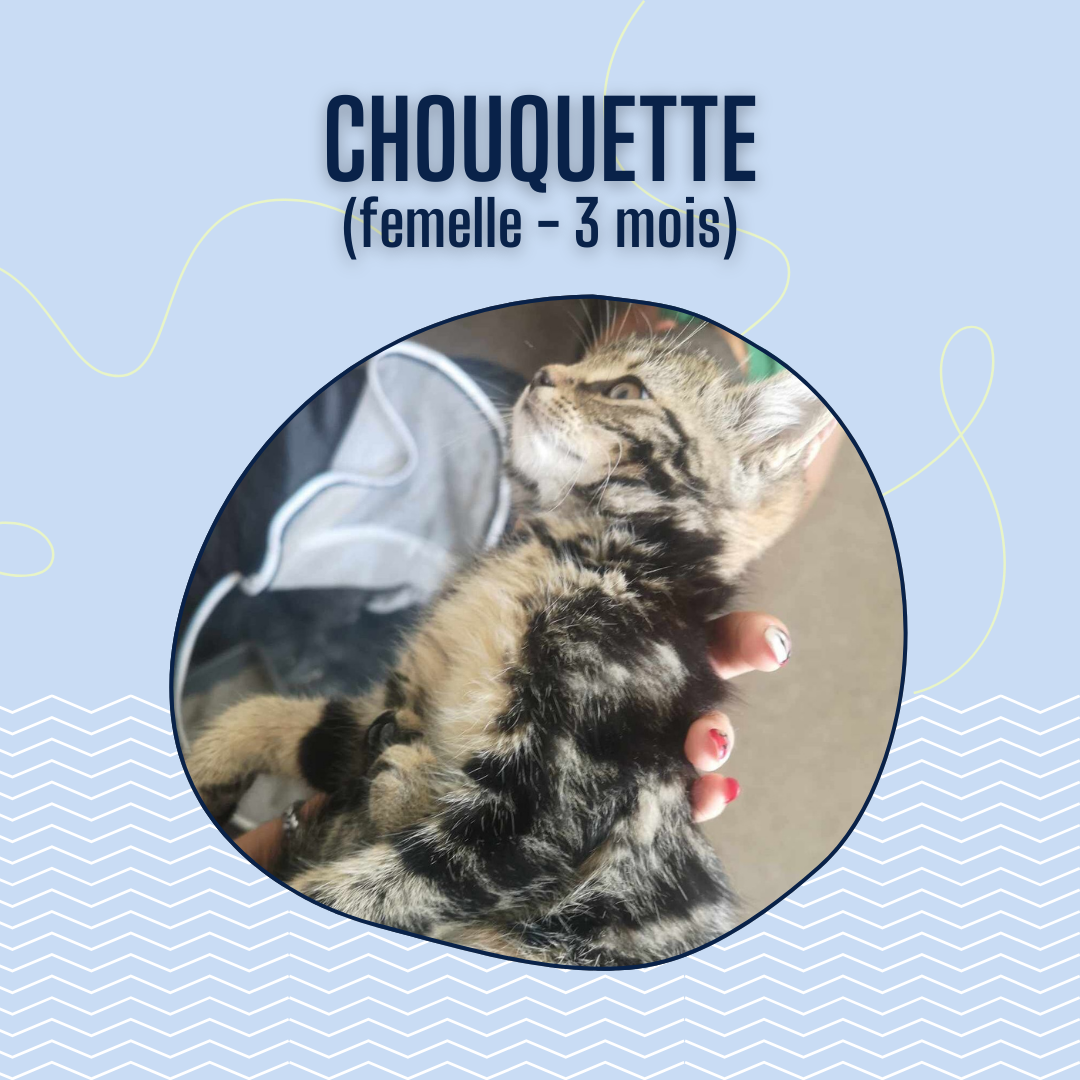
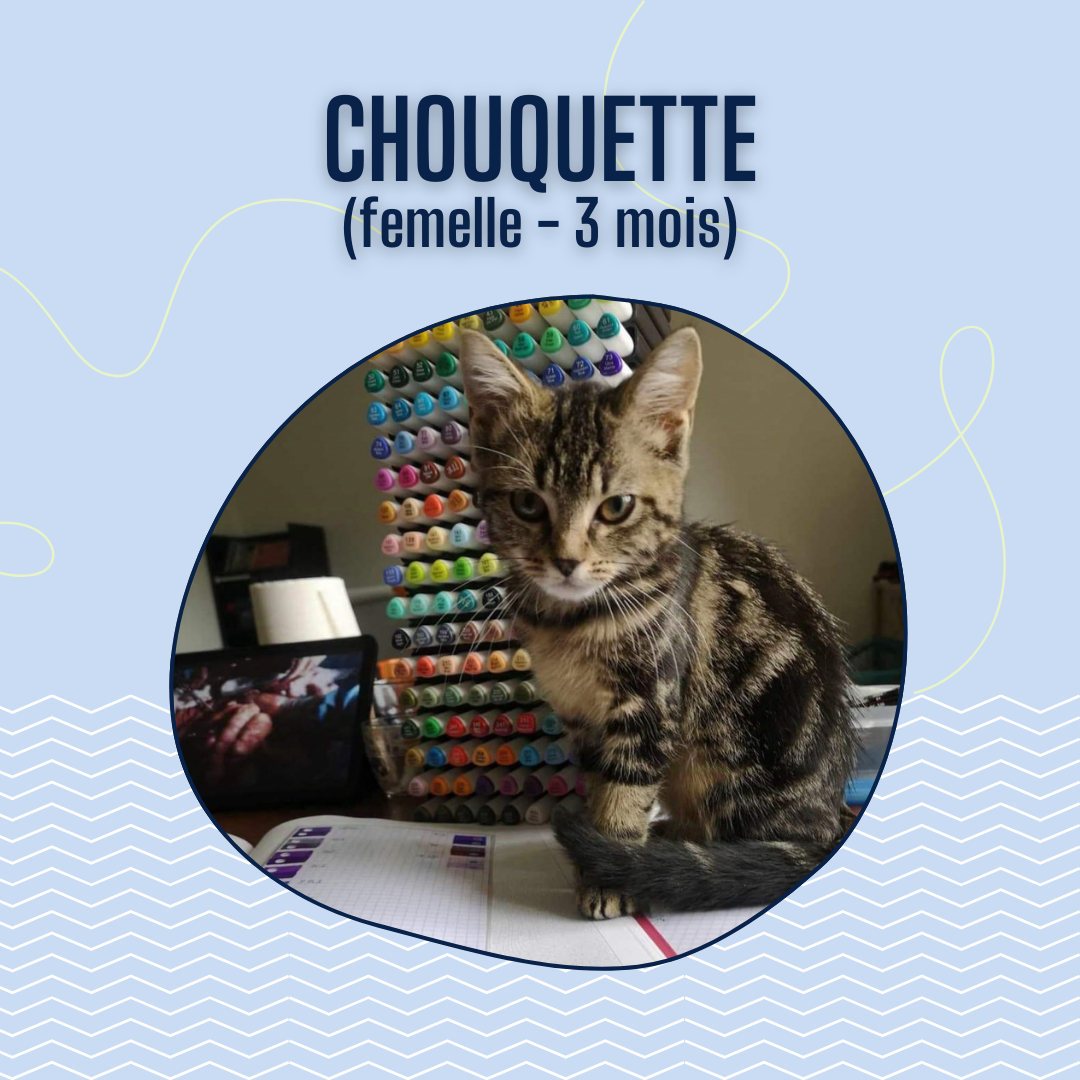
[UPDATE] - 17-09-2024

Changed region(s): [[0.1528, 0.275, 0.8556, 0.9167]]

diff --git a/fiches-adoption/a-chouquette.html b/fiches-adoption/a-chouquette.html
@@ -171,6 +171,16 @@
                           <img src="../images/Adoption/a_chouquette1.jpg" />
                         </div>
                       </div>
+                      <div class="carousel-item">
+                        <div class="img-box-particulier">
+                          <img src="../images/Adoption/a_chouquette2.jpg" />
+                        </div>
+                      </div>
+                      <div class="carousel-item">
+                        <div class="img-box-particulier">
+                          <img src="../images/Adoption/a_chouquette3.jpg" />
+                        </div>
+                      </div>
                     </div>
                     <div class="img_content">
                       <a
@@ -209,13 +219,20 @@
                   fait prêt à trouver sa famille, nos deux minettes, elles, sont
                   disponibles à l'adoption dès aujourd'hui ! (Louve vient
                   d'ailleurs d'être réservée !!) 💓 <br />
-                  Chouquette est la plus calme de la portée. Elle est très
-                  câline et très sage 🐈 Elle ronronne absolument tout le temps
-                  et adore être proche de l'humain 🫶🏻 <br />
+                  Chouquette est la plus calme de la portée. Bien qu'elle ait
+                  été trappée dans un jardin, son passé de sauvageonne est loin
+                  (très loin!) derrière elle. 🥰 Chouquette est super câline et
+                  très sage 🐈 Elle ronronne absolument tout le temps et adore
+                  être proche de l'humain 🫶🏻 <br />
                   Elle est également très gourmande et n'hésite pas à vous le
                   faire savoir avec sa douce voix 😋 <br />
-                  Chouquette est visible à Nouant le Fusellier. N’hésitez donc
-                  pas à
+                  Chouquette sera une chatte de très petit gabarit ! Elle
+                  restera sûrement assez petite toute sa vie. 🥺 <br />
+                  C’est également une chatte très curieuse, une vraie
+                  aventurière ! <br />
+                  Elle vit actuellement avec des chats et des enfants donc pas
+                  de soucis pour ça avec elle. 🐈 Chouquette est visible à
+                  Nouant le Fusellier. N’hésitez donc pas à
                   <a href="../contact.html">nous contacter</a>
                   si vous souhaitez la rencontrer 💙
                 </p>
